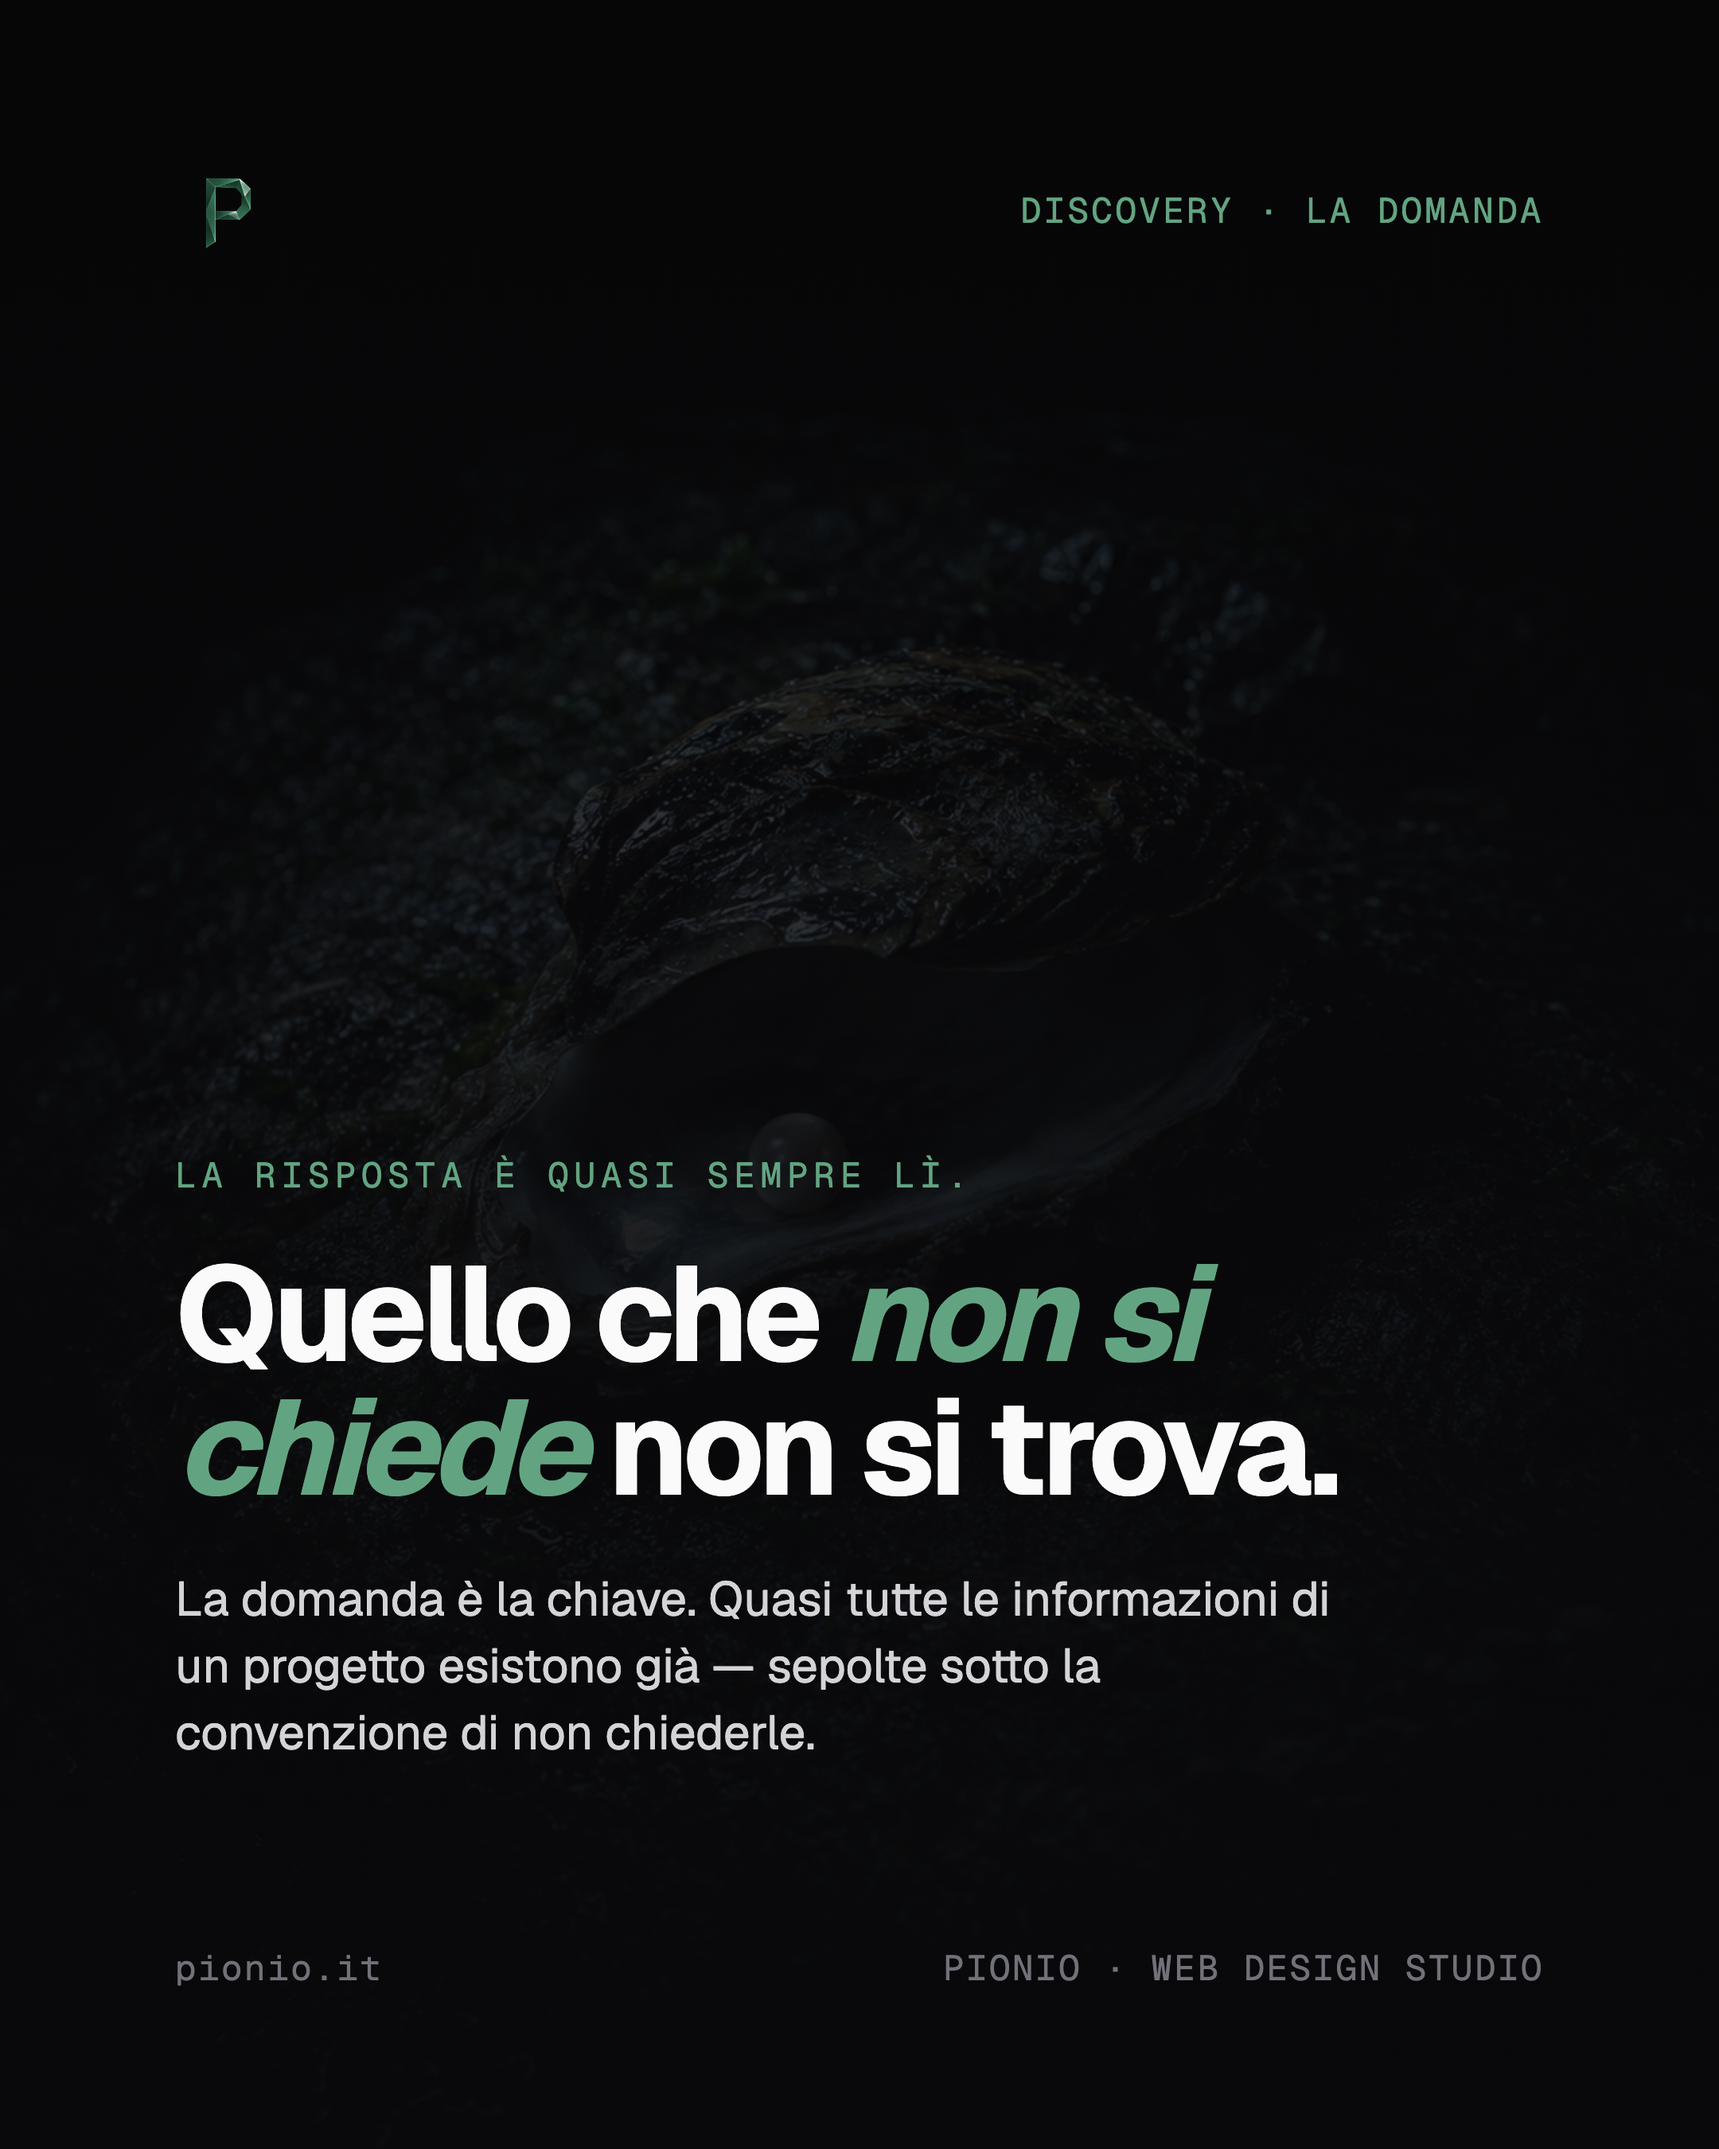
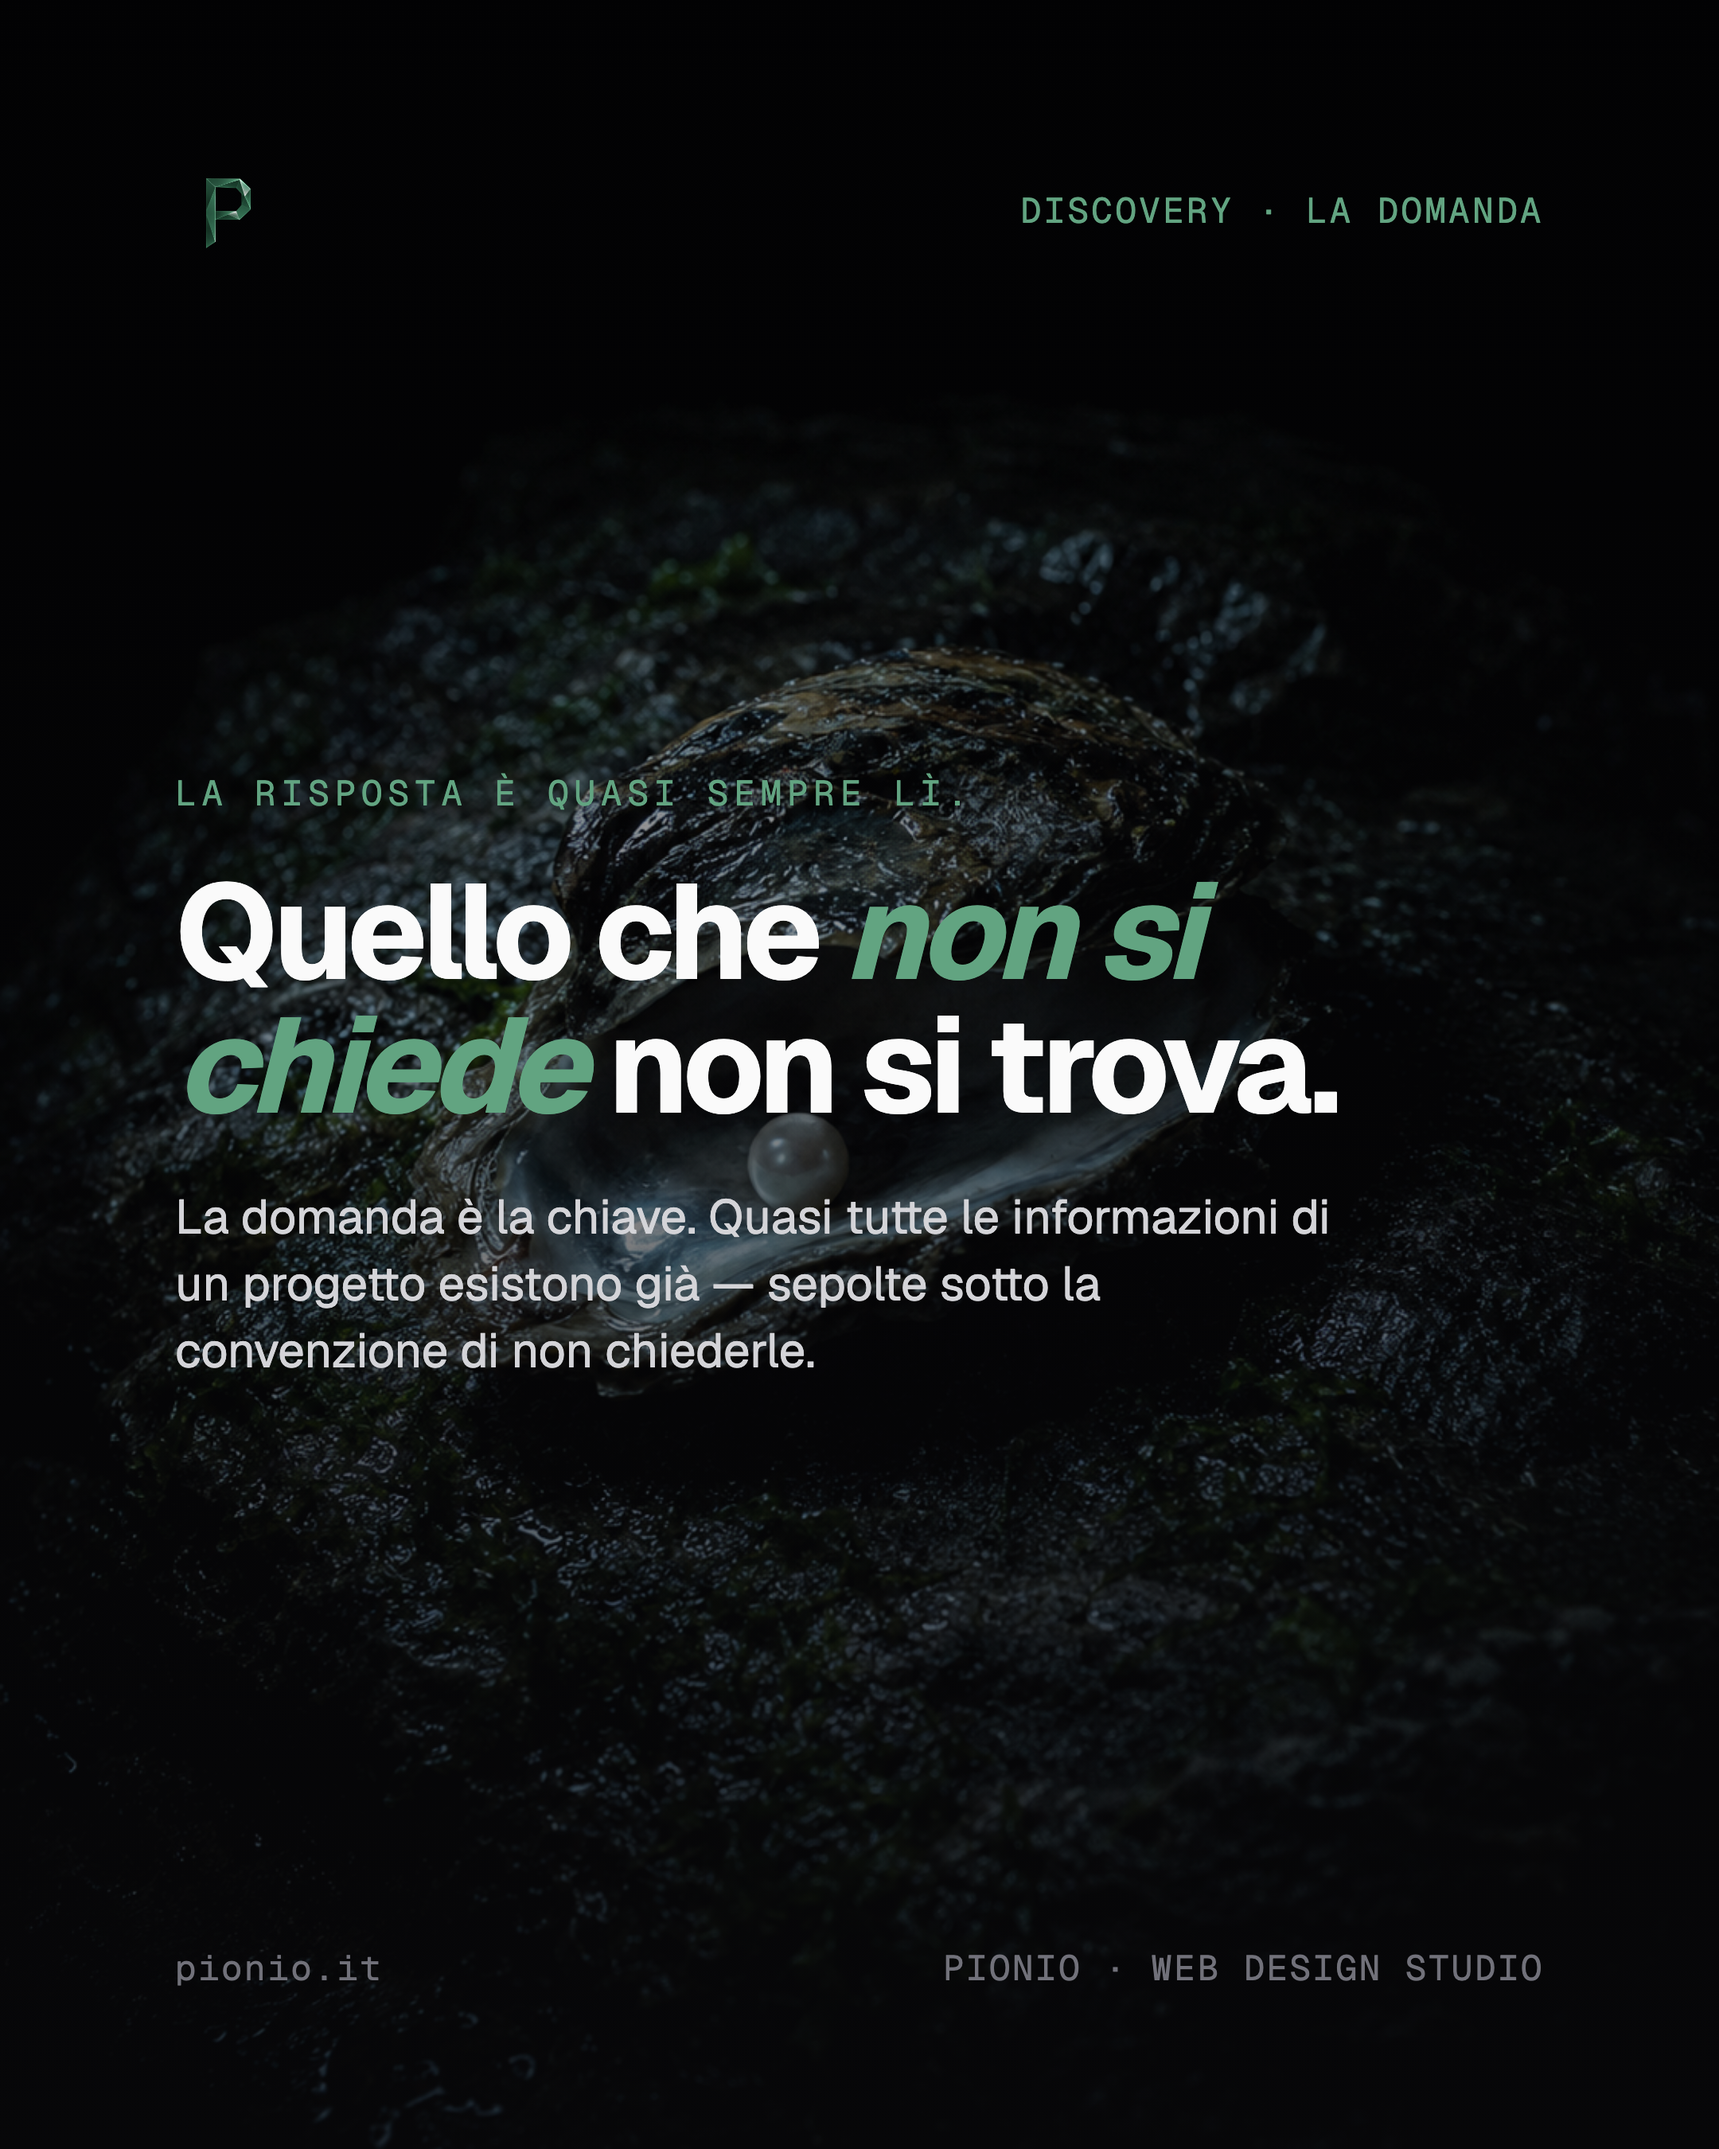
fix(instagram): W9+W10 Hero rialzati + overlay morbido (immagine più visibile)

Changed region(s): [[0.0931, 0.28, 0.8375, 0.84], [0.5894, 0.2489, 0.6514, 0.28]]

diff --git a/instagram/content/settimana-09-lug-2026/3-mer-15-13-hero-non-si-chiede/src/slides.html b/instagram/content/settimana-09-lug-2026/3-mer-15-13-hero-non-si-chiede/src/slides.html
@@ -12,13 +12,13 @@
   * { box-sizing: border-box; margin: 0; padding: 0; }
   html, body { background: var(--bg); margin: 0; padding: 0; overflow: hidden; }
   .slide { width: 1080px; height: 1350px; background: var(--bg); position: relative; overflow: hidden; }
-  .hero-img { position: absolute; inset: 0; width: 100%; height: 100%; object-fit: cover; object-position: center; display: block; opacity: 0.55; }
-  .hero-overlay { position: absolute; inset: 0; background: linear-gradient(180deg, rgba(9,9,11,0.4) 0%, rgba(9,9,11,0.85) 60%, rgba(9,9,11,0.95) 100%); }
+  .hero-img { position: absolute; inset: 0; width: 100%; height: 100%; object-fit: cover; object-position: center; display: block; opacity: 0.85; }
+  .hero-overlay { position: absolute; inset: 0; background: linear-gradient(180deg, rgba(9,9,11,0.15) 0%, rgba(9,9,11,0.35) 45%, rgba(9,9,11,0.75) 100%); }
   .header { position: absolute; top: 100px; left: 110px; right: 110px; display: flex; align-items: center; justify-content: space-between; z-index: 3; }
   .logo { width: 64px; height: 64px; }
   .logo img { width: 100%; height: 100%; object-fit: contain; }
   .eyebrow { font-family: "Geist Mono", monospace; font-weight: 400; font-size: 22px; color: var(--accent); letter-spacing: 0.08em; text-transform: uppercase; }
-  .main { position: absolute; left: 110px; right: 110px; bottom: 240px; z-index: 3; display: flex; flex-direction: column; gap: 32px; }
+  .main { position: absolute; left: 110px; right: 110px; bottom: 480px; z-index: 3; display: flex; flex-direction: column; gap: 32px; }
   .hero-kicker { font-family: "Geist Mono", monospace; font-size: 22px; color: var(--accent); letter-spacing: 0.16em; text-transform: uppercase; }
   .hero-title { font-family: "Geist", sans-serif; font-weight: 700; font-size: 84px; line-height: 1.0; letter-spacing: -0.04em; color: var(--text); max-width: 880px; }
   .hero-title em { font-style: italic; color: var(--accent); }

diff --git a/instagram/content/settimana-10-lug-2026/3-mer-22-13-hero-lista-da-togliere/src/slides.html b/instagram/content/settimana-10-lug-2026/3-mer-22-13-hero-lista-da-togliere/src/slides.html
@@ -12,13 +12,13 @@
   * { box-sizing: border-box; margin: 0; padding: 0; }
   html, body { background: var(--bg); margin: 0; padding: 0; overflow: hidden; }
   .slide { width: 1080px; height: 1350px; background: var(--bg); position: relative; overflow: hidden; }
-  .hero-img { position: absolute; inset: 0; width: 100%; height: 100%; object-fit: cover; object-position: center; display: block; opacity: 0.55; }
-  .hero-overlay { position: absolute; inset: 0; background: linear-gradient(180deg, rgba(9,9,11,0.4) 0%, rgba(9,9,11,0.85) 60%, rgba(9,9,11,0.95) 100%); }
+  .hero-img { position: absolute; inset: 0; width: 100%; height: 100%; object-fit: cover; object-position: center; display: block; opacity: 0.85; }
+  .hero-overlay { position: absolute; inset: 0; background: linear-gradient(180deg, rgba(9,9,11,0.15) 0%, rgba(9,9,11,0.35) 45%, rgba(9,9,11,0.75) 100%); }
   .header { position: absolute; top: 100px; left: 110px; right: 110px; display: flex; align-items: center; justify-content: space-between; z-index: 3; }
   .logo { width: 64px; height: 64px; }
   .logo img { width: 100%; height: 100%; object-fit: contain; }
   .eyebrow { font-family: "Geist Mono", monospace; font-weight: 400; font-size: 22px; color: var(--accent); letter-spacing: 0.08em; text-transform: uppercase; }
-  .main { position: absolute; left: 110px; right: 110px; bottom: 240px; z-index: 3; display: flex; flex-direction: column; gap: 32px; }
+  .main { position: absolute; left: 110px; right: 110px; bottom: 480px; z-index: 3; display: flex; flex-direction: column; gap: 32px; }
   .hero-kicker { font-family: "Geist Mono", monospace; font-size: 22px; color: var(--accent); letter-spacing: 0.16em; text-transform: uppercase; }
   .hero-title { font-family: "Geist", sans-serif; font-weight: 700; font-size: 88px; line-height: 1.0; letter-spacing: -0.04em; color: var(--text); max-width: 880px; }
   .hero-title em { font-style: italic; color: var(--accent); }
